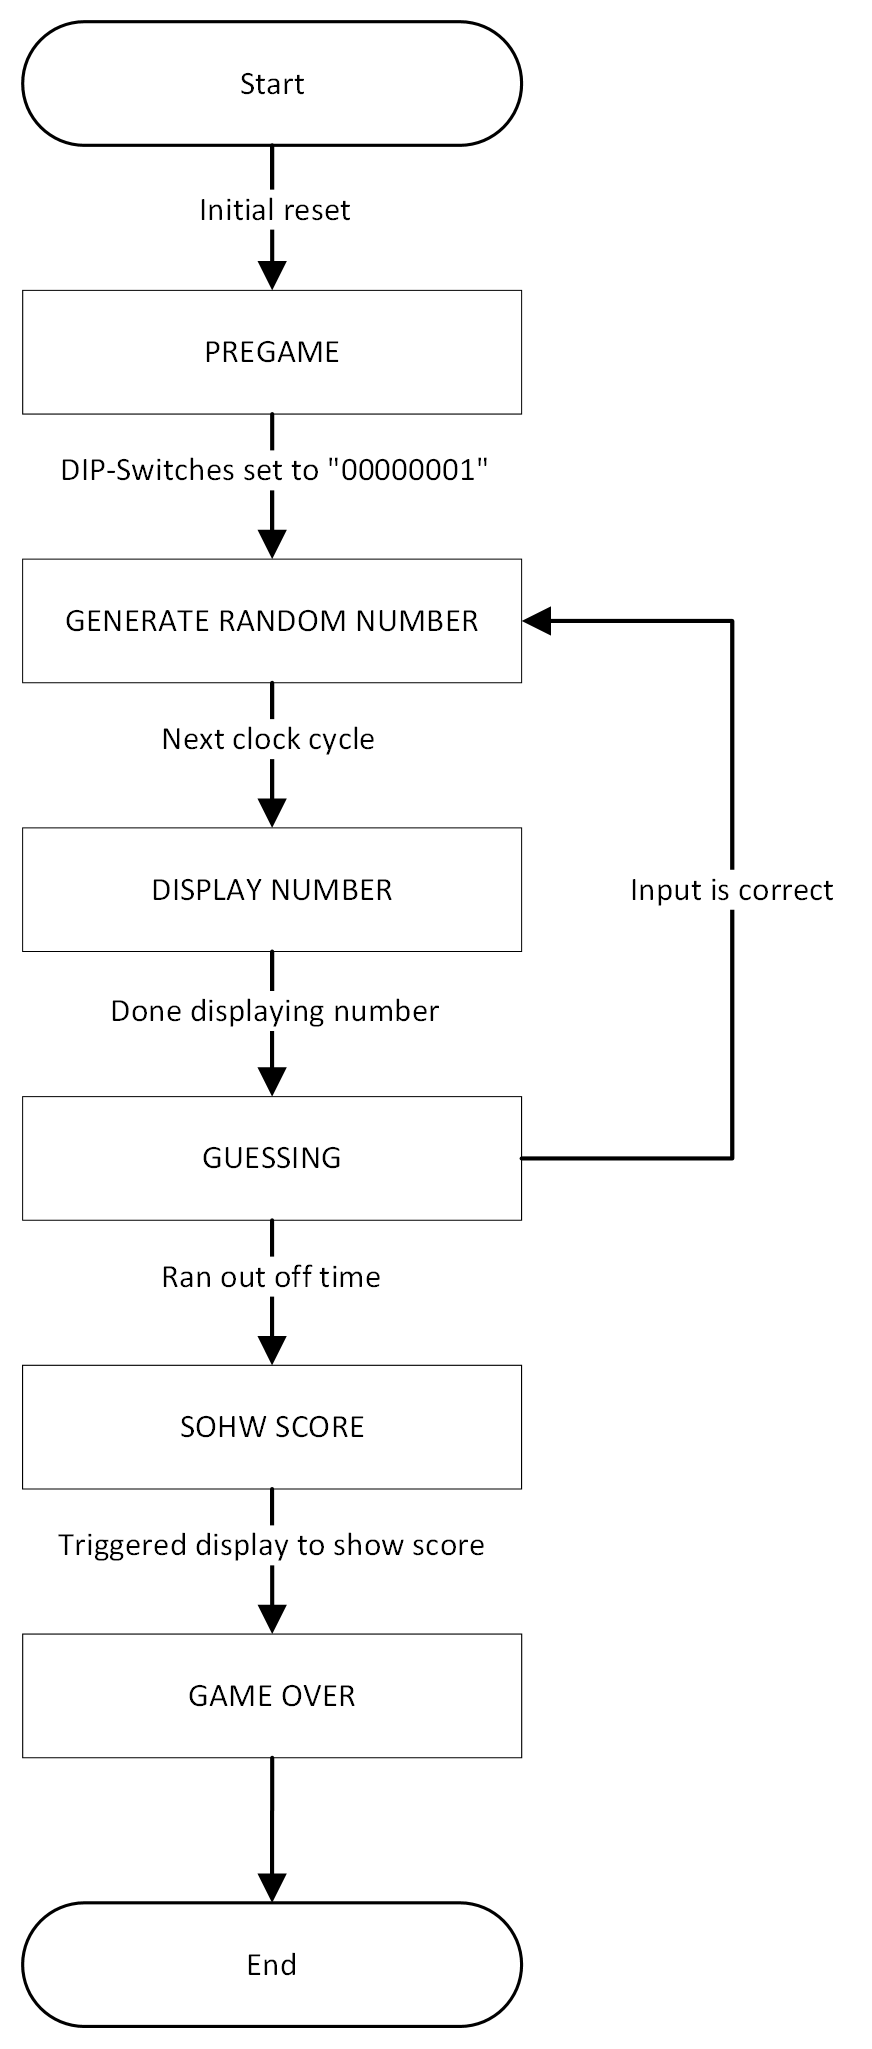
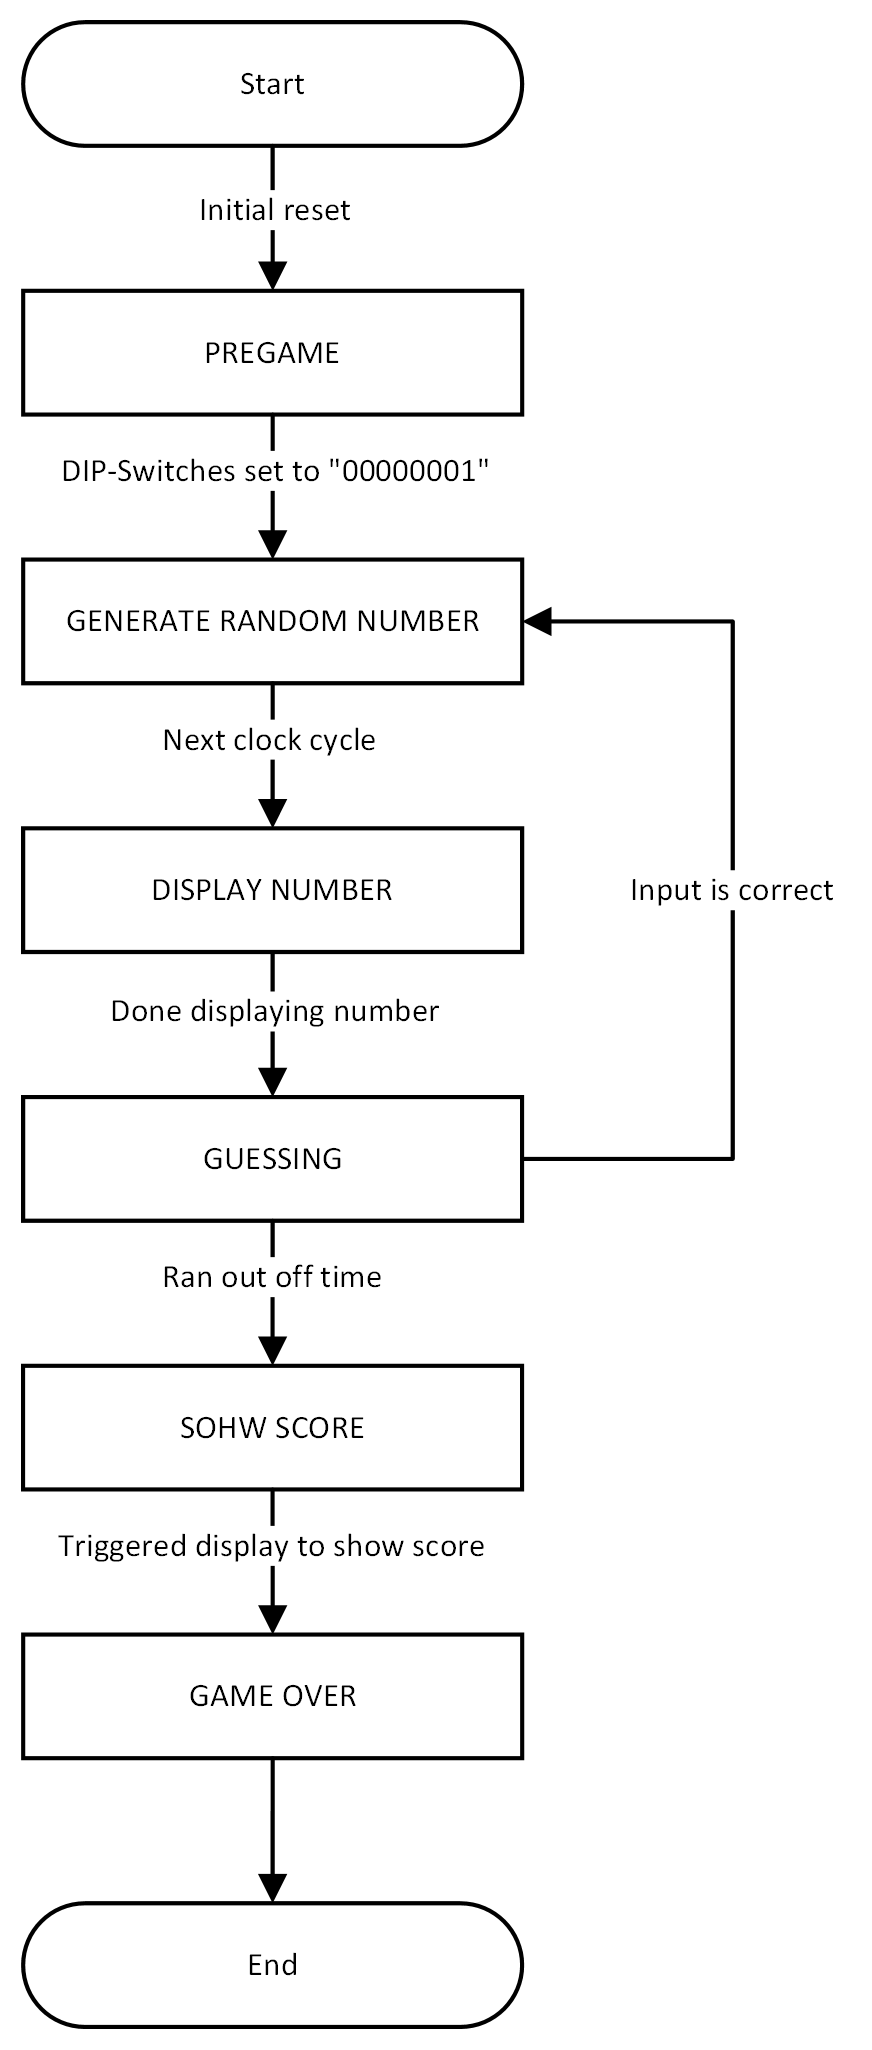
updated image state machine

diff --git a/docs/info.md b/docs/info.md
@@ -619,7 +619,7 @@ As observed in the GTKWave simulation, the `point_state` signal (LED on/off) tog
 
 #### Description
 
-
+<img title="" src="https://github.com/TobiasPfaffeneder/tt-sky25b-can-you-count-binary-game/blob/main/docs/images/state_machine.png?raw=true" alt="state_machine.png" width="315" data-align="center">
 
 #### Signal Overview
 
